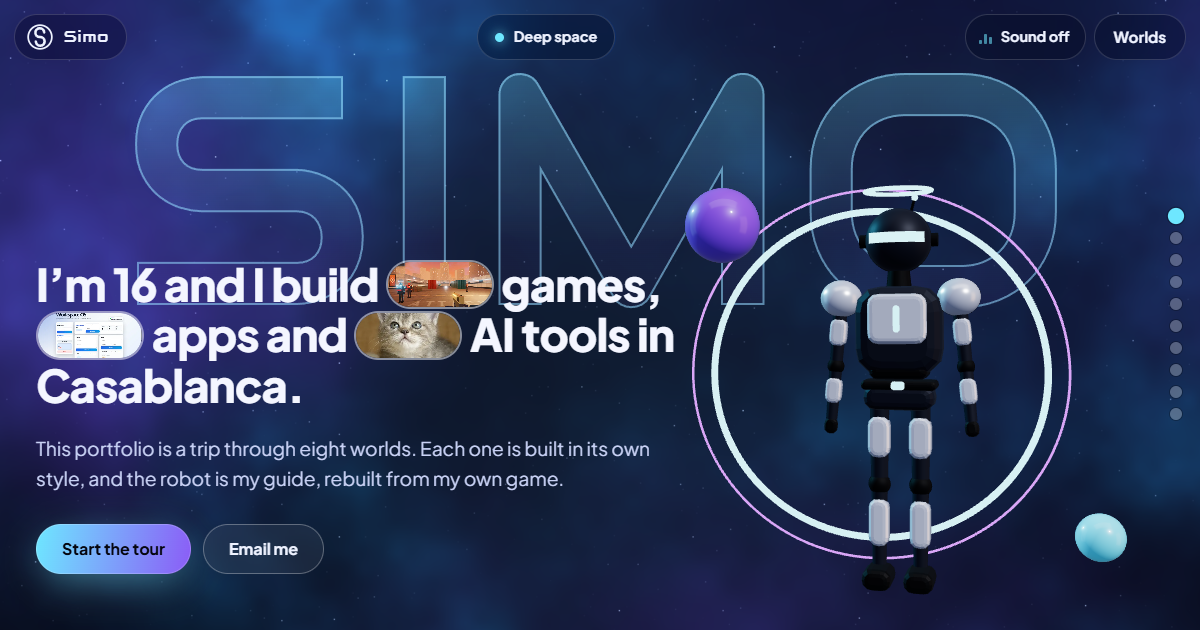
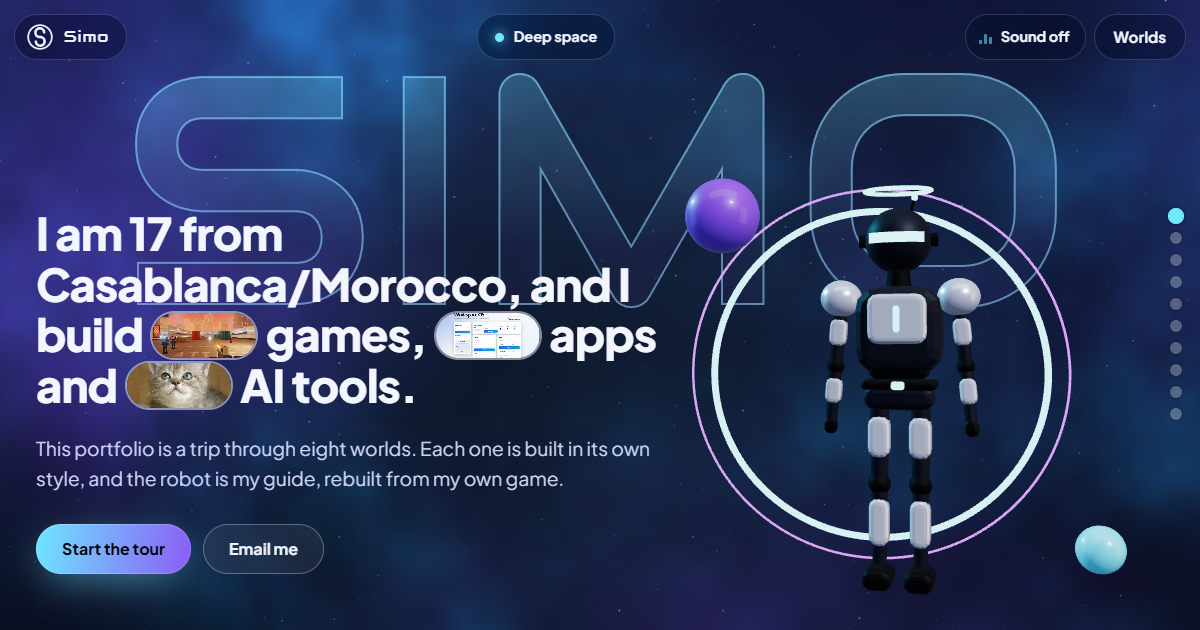
Home page: "I am 17 from Casablanca/Morocco, and I build games, apps and AI tools."
Age and place updated in the page description and social card too.

Changed region(s): [[0.0308, 0.3317, 0.5858, 0.6635], [0.555, 0.2714, 0.6475, 0.4222], [0.8942, 0.8143, 0.9558, 0.9349]]

diff --git a/index.html b/index.html
@@ -4,12 +4,12 @@
   <meta charset="UTF-8" />
   <meta name="viewport" content="width=device-width, initial-scale=1" />
   <title>Simo: eight worlds of games, apps, robots and AI tools</title>
-  <meta name="description" content="Simo is 16 and builds software in Casablanca. Scroll through eight worlds: a local AI assistant, a browser tactical shooter, a fantasy RPG, a strategy planner for robot competitions, sites for real businesses and motion films, guided by a robot rebuilt from his own game." />
+  <meta name="description" content="Simo is 17 and builds software in Casablanca, Morocco. Scroll through eight worlds: a local AI assistant, a browser tactical shooter, a fantasy RPG, a strategy planner for robot competitions, sites for real businesses and motion films, guided by a robot rebuilt from his own game." />
   <meta name="theme-color" content="#05060f" />
   <link rel="canonical" href="https://semo-el.github.io/Portfolio_V5/" />
   <meta property="og:type" content="website" />
   <meta property="og:title" content="Simo: eight worlds" />
-  <meta property="og:description" content="A scroll-through portfolio: SimoAI, Ironline, Mana Vessel, RoboRoute, real client sites and films, from a 16-year-old builder in Casablanca." />
+  <meta property="og:description" content="A scroll-through portfolio: SimoAI, Ironline, Mana Vessel, RoboRoute, real client sites and films, from a 17-year-old builder in Casablanca, Morocco." />
   <meta property="og:image" content="https://semo-el.github.io/Portfolio_V5/images/og-image.png" />
   <meta name="twitter:card" content="summary_large_image" />
   <link rel="icon" href="favicon.svg" type="image/svg+xml" />
@@ -75,7 +75,7 @@
     <section class="w w-cosmic start" id="start" data-world="cosmic" data-robot="0.5,-0.86,0.62,-0.35" data-robot-m="0.5,0.06,0.2,-0.3" aria-labelledby="start-h">
       <h1 class="giant under" id="start-h" aria-label="Simo"><span class="giant-in">SIMO</span></h1>
       <div class="start-copy">
-        <p class="start-line">I’m 16 and I build <span class="pill"><img src="images/t/ironline-terminal.webp" width="704" height="440" alt="" loading="lazy" decoding="async"></span>&nbsp;games, <span class="pill"><img src="images/t/workspace-dashboard.webp" width="848" height="440" alt="" loading="lazy" decoding="async"></span>&nbsp;apps and <span class="pill"><img src="images/t/simoai-kitten.webp" width="440" height="440" alt="" loading="lazy" decoding="async"></span>&nbsp;AI&nbsp;tools in Casablanca.</p>
+        <p class="start-line">I am 17 from Casablanca/Morocco, and I build <span class="pill"><img src="images/t/ironline-terminal.webp" width="704" height="440" alt="" loading="lazy" decoding="async"></span>&nbsp;games, <span class="pill"><img src="images/t/workspace-dashboard.webp" width="848" height="440" alt="" loading="lazy" decoding="async"></span>&nbsp;apps and <span class="pill"><img src="images/t/simoai-kitten.webp" width="440" height="440" alt="" loading="lazy" decoding="async"></span>&nbsp;AI&nbsp;tools.</p>
         <p class="start-sub">This portfolio is a trip through eight worlds. Each one is built in its own style, and the robot is my guide, rebuilt from my own game.</p>
         <p class="start-act">
           <a class="btn btn-cosmic" href="#origins">Start the tour</a>
